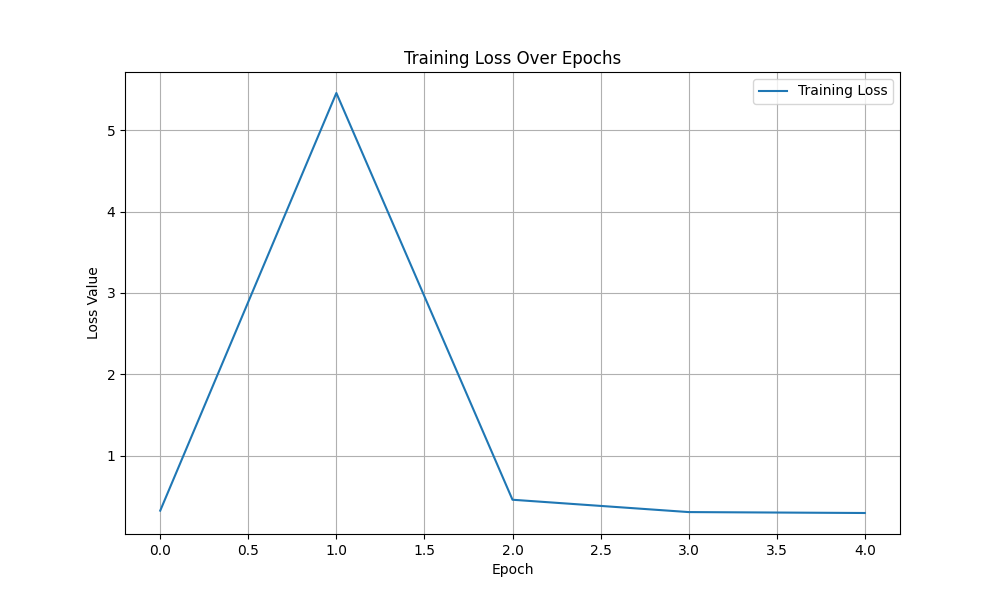
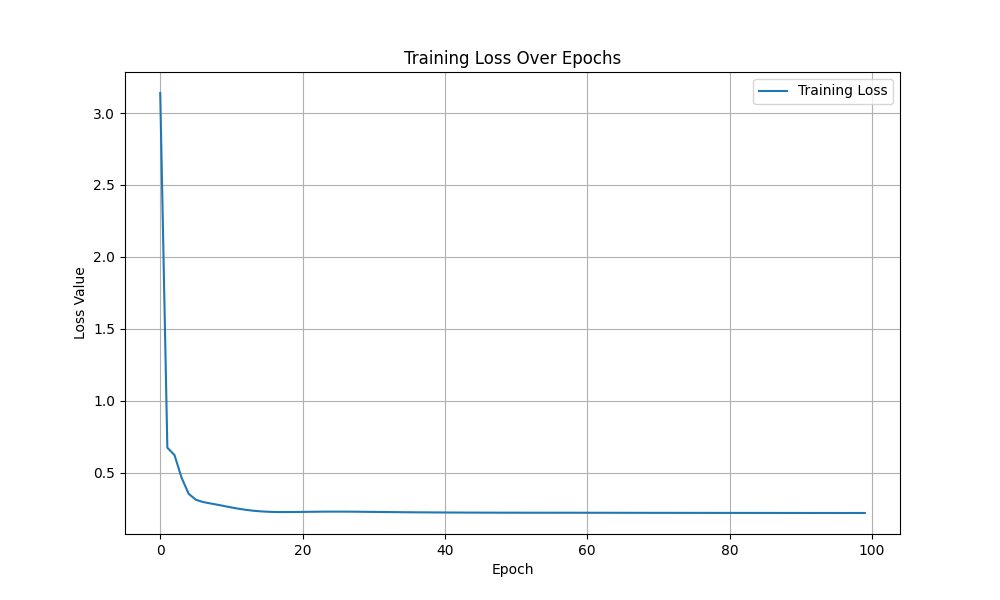
extrapolation on decaying spiral
trained and memorized data but unable to extrapolate

diff --git a/train_neural_ode.py b/train_neural_ode.py
@@ -35,13 +35,13 @@ criterion = torch.nn.MSELoss()
 
 # Training
 print("\nTraining Neural ODE...")
-losses = train_ode(model, 5, optimizer, criterion, t, data)
+losses = train_ode(model, 100, optimizer, criterion, t, data)
 
 # Plotting
 print("\nGenerating plots...")
-plot_loss(losses, file_name="Losses (spiral-dataset).png")
+plot_loss(losses, file_name="Losses (spiral-time-conditioned).png")
 
-t_future, state_future = extrapolate(model, t, data, device)
+t_future, state_future = extrapolate(model, t, data, device, t_max=20)
 
 #plot_vector_field(model, file_name="Learned Vector Field (spiral-dataset).png", device=device)
 
@@ -49,4 +49,4 @@ t_future, state_future = extrapolate(model, t, data, device)
 
 #plot_learned_dynamics_vs_true(model, device=device, file_name="Learned Dynamics (spiral-dataset).png")
 
-plot_spiral_extrapolation(t, data, state_future, file_name="Spiral Extrapolation.png")
+plot_spiral_extrapolation(t, data, state_future, file_name="Spiral Extrapolation (spiral-time-conditioned).png")

diff --git a/models/neural_ode.py b/models/neural_ode.py
@@ -11,18 +11,18 @@ class ODEFunc(nn.Module):
 
         # MLP that takes state [y, v] and outputs derivatives [dy/dt, dv/dt]
         self.net = nn.Sequential(
-            nn.Linear(2, hidden_dim),    # Input: [y, v]
+            nn.Linear(3, hidden_dim),    
             nn.Tanh(), 
             nn.Linear(hidden_dim, hidden_dim),
             nn.Tanh(),
-            nn.Linear(hidden_dim, 2)     # Output: [dy/dt, dv/dt]
+            nn.Linear(hidden_dim, 2)     
         )
 
     def forward(self, t, state):
-        # state shape: [batch_size, 2] where state = [y, v]
-        # Output: [dy/dt, dv/dt]
-        # We ignore t because this is an autonomous system
-        return self.net(state)
+        #concatenate time with state
+        t_vec = torch.ones(state.shape[0], 1).to(state.device) * t
+        aug_state = torch.cat([state, t_vec], dim=1)
+        return self.net(aug_state)
 
     
 def train_ode(model, epochs, optimizer, criterion, t, state):

diff --git a/dataset/data.py b/dataset/data.py
@@ -29,8 +29,8 @@ def generate_spiral(n_samples, t_max=100):
     t = np.linspace(0, t_max, n_samples)
 
     #Generate spiral
-    x = np.sin(t) * np.exp(-0.1 * t)
-    y = np.cos(t) * np.exp(-0.1 * t)
+    x = np.sin(t) #* np.exp(-0.1 * t)
+    y = np.cos(t) #* np.exp(-0.1 * t)
 
     #add noise
     x += np.random.normal(0, 0.01, size=t.shape)
